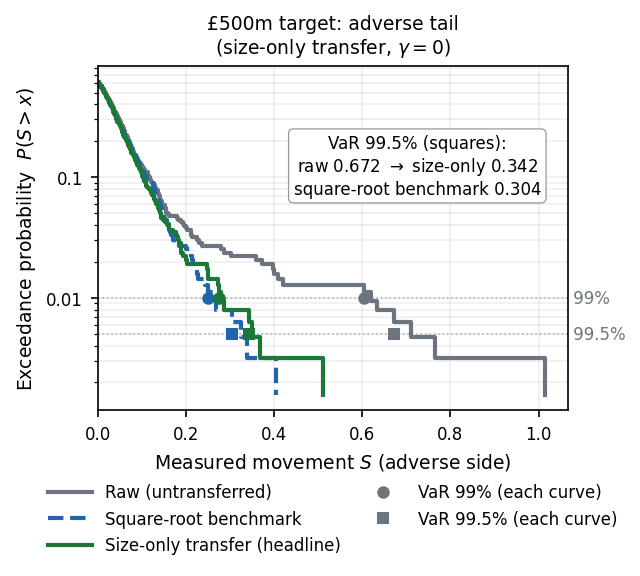
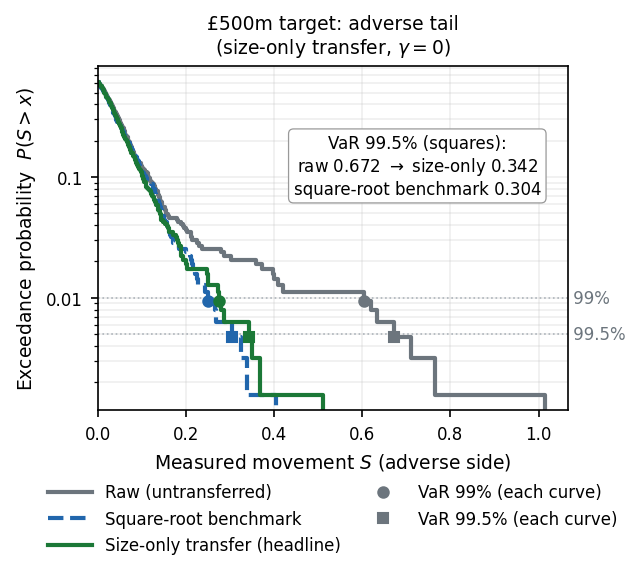
Correct the empirical survivor figure and markers

Changed region(s): [[0.25, 0.3438, 0.875, 0.7188], [0.2188, 0.3125, 0.25, 0.3438]]

diff --git a/src/make_v1_ritc_survivor.py b/src/make_v1_ritc_survivor.py
@@ -81,12 +81,21 @@ CALLOUT_CANDIDATES = tuple(sorted(ANNOTATION_CANDIDATES, key=lambda p: (p[0] - C
 
 
 def survivor(x):
-    """Empirical survivor on the adverse (positive) side: sorted x>0 and P(S>=x)."""
-    xp = np.sort(x[x > 0])[::-1]
-    n = len(x)
-    # exceedance prob over the FULL sample (so levels match VaR quantiles)
-    p = (np.arange(1, len(xp) + 1)) / n
-    return xp[::-1], p[::-1]
+    """Distinct positive support values and their full-sample strict survivor P(S > x).
+
+    A strict empirical survivor is right-continuous: tied observations all leave the
+    tail at their common value.  The maximum therefore has survival zero, which is
+    off the logarithmic axis; its endpoint still completes the preceding step.
+    """
+    sample = np.asarray(x, dtype=float)
+    if sample.ndim != 1 or not np.isfinite(sample).all():
+        raise ValueError("survivor expects a finite one-dimensional sample")
+    positive = np.unique(sample[sample > 0])
+    if not len(positive):
+        return positive, np.empty(0, dtype=float)
+    ordered = np.sort(sample)
+    probabilities = (len(sample) - np.searchsorted(ordered, positive, side="right")) / len(sample)
+    return positive, probabilities
 
 
 def step_vertices(xs, ps):
@@ -191,8 +200,12 @@ def build_figure(raw, transferred, sqrt_r, mode, printed=None, target_gbp_m=None
         curves.append(step_vertices(xs, ps))
         for a, mark in ((0.99, "o"), (0.995, "s")):
             v = var_q(arr, a)
-            ax.plot(v, 1 - a, mark, color=col, ms=5, zorder=5)
-            marker_pts.append((v, 1 - a))
+            # The empirical strict survivor at VaR need not equal the nominal tail
+            # probability, especially when there are ties or a finite donor pool.
+            exceedance = float(np.count_nonzero(arr > v) / len(arr))
+            if exceedance > 0:  # zero cannot be plotted on the logarithmic axis
+                ax.plot(v, exceedance, mark, color=col, ms=5, zorder=5)
+                marker_pts.append((v, exceedance))
     # the markers' key, in the legend: it was the title's fourth line (the final review of 14 October 2026, P30)
     for mark, txt in (("o", "VaR 99% (each curve)"), ("s", "VaR 99.5% (each curve)")):
         ax.plot([], [], mark, color="#6c757d", ms=5, label=txt)

diff --git a/src/test_vignette_survivor_strict.py b/src/test_vignette_survivor_strict.py
@@ -1,0 +1,49 @@
+"""The survivor is strict at atoms, and VaR markers use actual empirical exceedances."""
+import matplotlib
+matplotlib.use('Agg')
+import matplotlib.pyplot as plt
+import numpy as np
+import pytest
+
+import make_v1_ritc_survivor as survivor
+import transfer_operator as operator
+from pool_quantile import var_q
+
+
+def test_strict_survivor_handles_ties_and_full_sample_denominator():
+    sample = np.array([-1., 0., 1., 1., 2., 3., 3.])
+    x, probability = survivor.survivor(sample)
+    np.testing.assert_array_equal(x, [1., 2., 3.])
+    np.testing.assert_allclose(probability, [3/7, 2/7, 0.0], atol=0, rtol=1e-15)
+    for i in range(len(x) - 1):
+        at_and_after = [x[i], (x[i] + x[i + 1]) / 2]
+        for value in at_and_after:
+            assert probability[i] == pytest.approx(np.mean(sample > value))
+    assert probability[-1] == np.mean(sample > np.max(sample)) == 0
+
+
+def test_empty_positive_side_and_bad_inputs():
+    for sample in (np.array([]), np.array([-2., -1., 0.])):
+        x, p = survivor.survivor(sample)
+        assert len(x) == len(p) == 0
+    with pytest.raises(ValueError, match='finite'):
+        survivor.survivor(np.array([1., np.nan]))
+    with pytest.raises(ValueError, match='one-dimensional'):
+        survivor.survivor(np.array([[1., 2.]]))
+
+
+def test_real_quantile_markers_use_empirical_strict_survival():
+    raw, transferred, sqrt_r, _ritc = survivor.pools(operator.HEADLINE)
+    fig, ax, _note, _obstacles = survivor.build_figure(raw, transferred, sqrt_r, operator.HEADLINE)
+    try:
+        for values in (raw, sqrt_r, transferred):
+            for alpha, marker in ((.99, 'o'), (.995, 's')):
+                q = var_q(values, alpha)
+                exceedance = np.mean(values > q)
+                points = [line for line in ax.lines if line.get_marker() == marker
+                          and len(line.get_xdata()) == 1
+                          and np.isclose(line.get_xdata()[0], q)]
+                assert points and any(float(line.get_ydata()[0]) == pytest.approx(exceedance) for line in points)
+                assert exceedance != pytest.approx(1 - alpha)
+    finally:
+        plt.close(fig)
